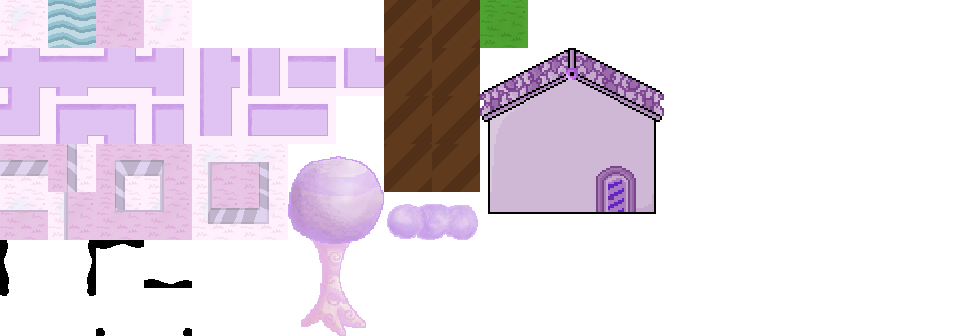
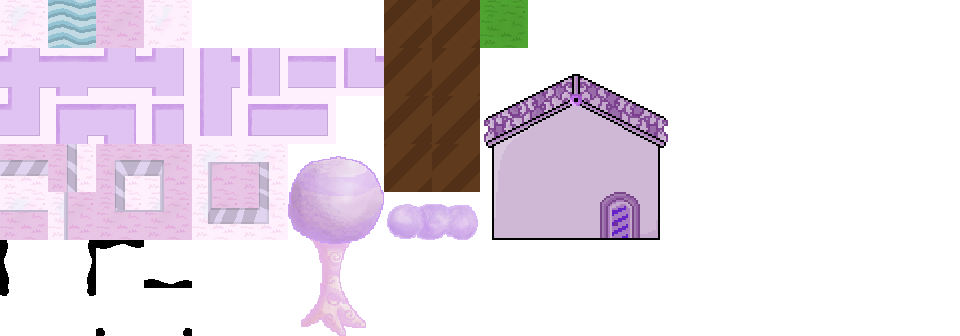
Fixing the house image

Changed region(s): [[0.5, 0.1488, 0.7188, 0.7143]]

diff --git a/src/terrain/tile_image_loader.py b/src/terrain/tile_image_loader.py
@@ -75,7 +75,7 @@ shore_8 = {"template": (144, 288, 48, 48),
 bush = (384, 192, 96, 48)
 grass = (480, 0, 48, 48)
 ground_alt = (144, 0, 48, 48)
-house_1 = (480, 48, 184, 166)
+house_1 = (480, 48, 192, 192)
 
 
 # Indexing this array by a tiles' ID will
